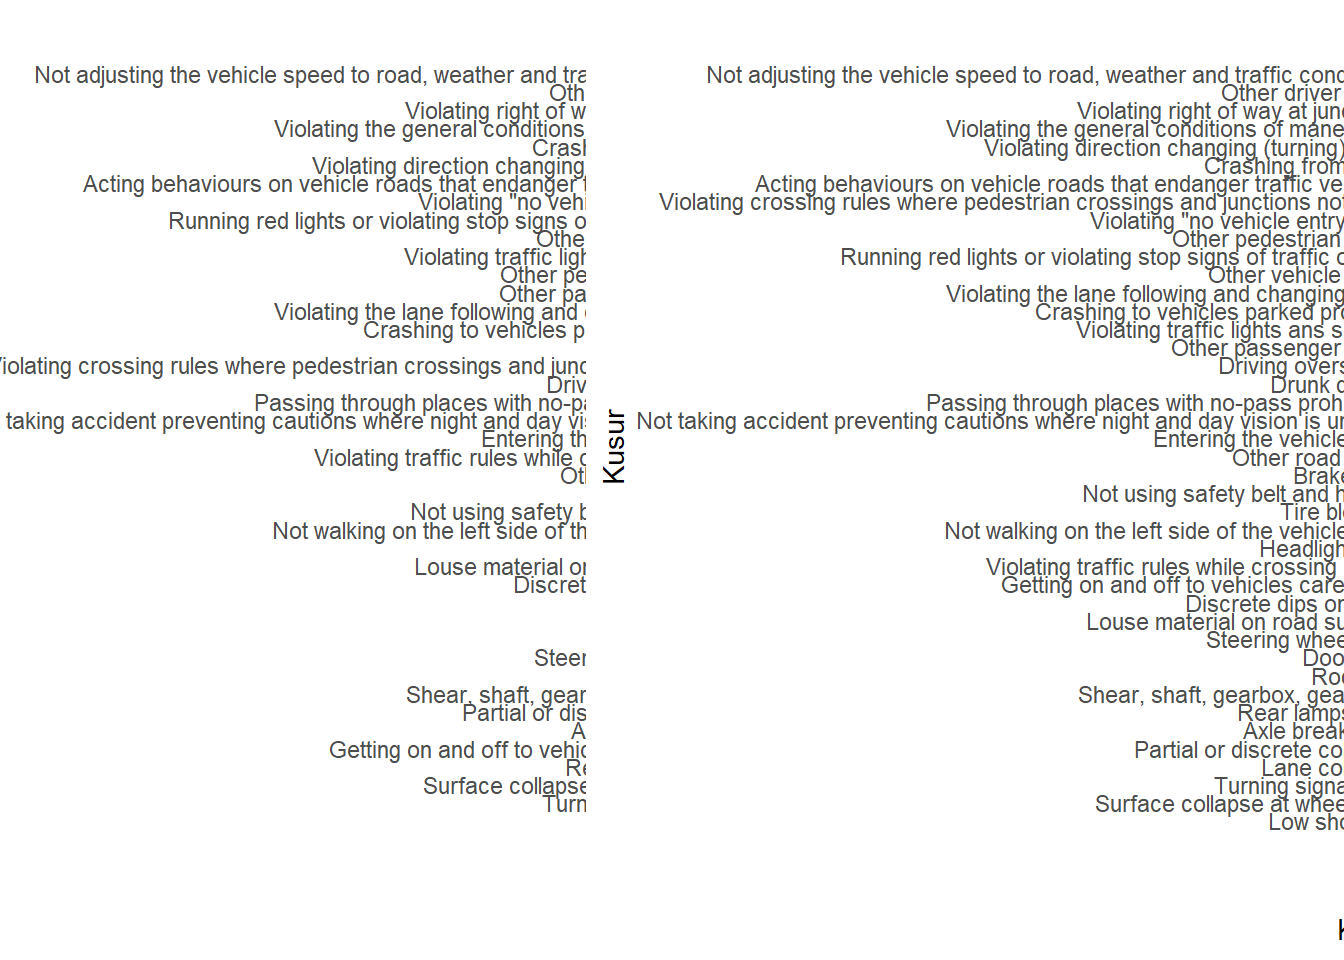
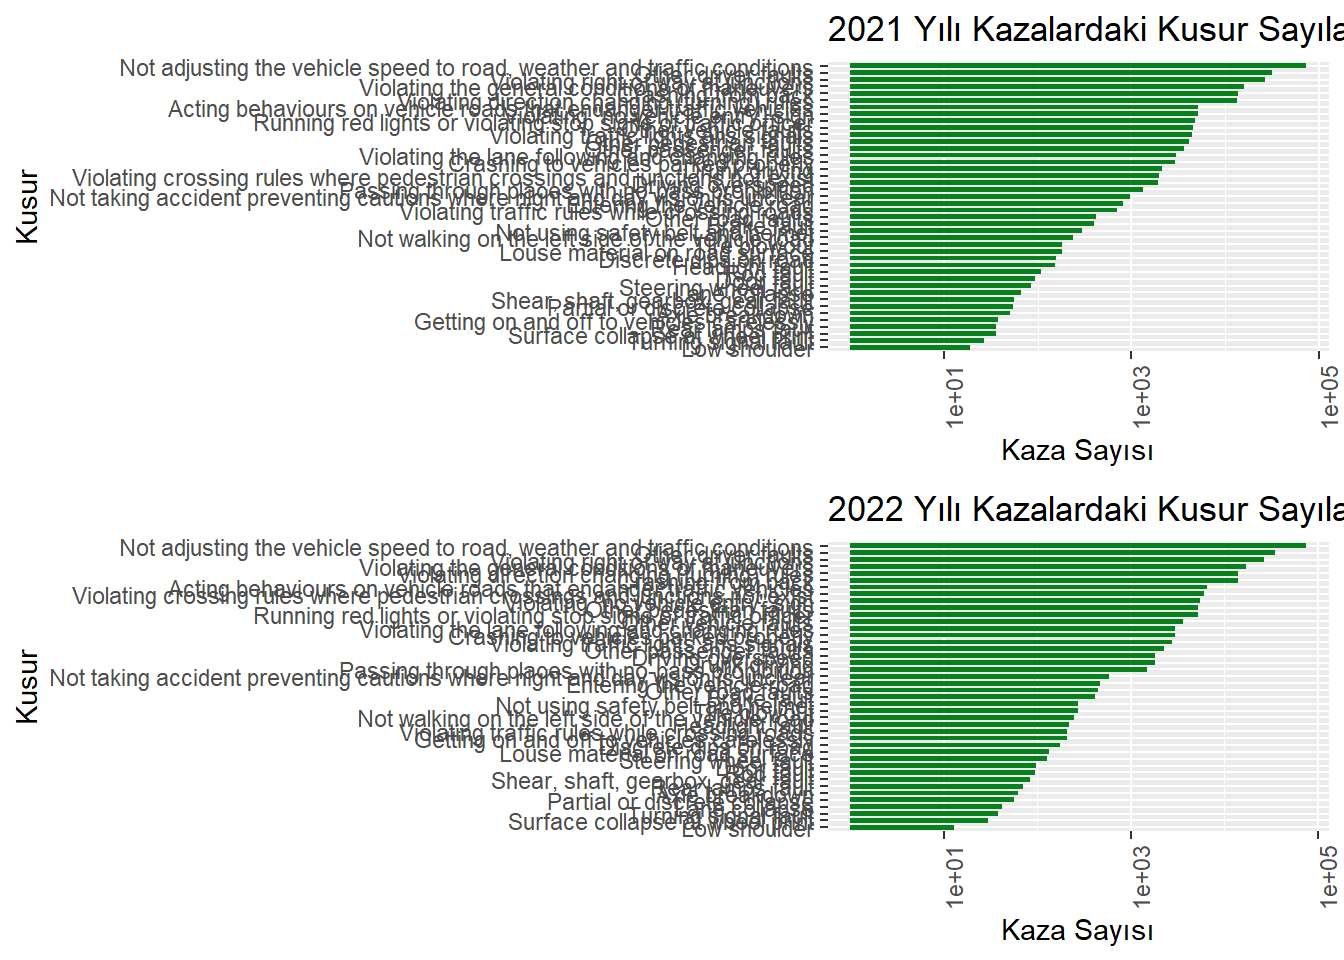
4
4

diff --git a/docs/proje.html b/docs/proje.html
@@ -442,7 +442,7 @@ The following object is masked from 'package:dplyr':
 <span id="cb11-16"><a href="#cb11-16" aria-hidden="true" tabindex="-1"></a>  <span class="fu">labs</span>(<span class="at">title =</span> <span class="st">"2022 Yılı Kazalardaki Kusur Sayıları"</span>, </span>
 <span id="cb11-17"><a href="#cb11-17" aria-hidden="true" tabindex="-1"></a>       <span class="at">x =</span> <span class="st">"Kaza Sayısı"</span>, <span class="at">y =</span> <span class="st">"Kusur"</span>)</span>
 <span id="cb11-18"><a href="#cb11-18" aria-hidden="true" tabindex="-1"></a></span>
-<span id="cb11-19"><a href="#cb11-19" aria-hidden="true" tabindex="-1"></a><span class="fu">grid.arrange</span>(p1, p2, <span class="at">ncol =</span> <span class="dv">2</span>)</span></code><button title="Copy to Clipboard" class="code-copy-button"><i class="bi"></i></button></pre></div>
+<span id="cb11-19"><a href="#cb11-19" aria-hidden="true" tabindex="-1"></a><span class="fu">grid.arrange</span>(p1, p2, <span class="at">nrow=</span><span class="dv">2</span>,<span class="at">ncol =</span> <span class="dv">1</span>)</span></code><button title="Copy to Clipboard" class="code-copy-button"><i class="bi"></i></button></pre></div>
 </details>
 <div class="cell-output-display">
 <p><img src="proje_files/figure-html/unnamed-chunk-4-1.png" class="img-fluid" width="672"></p>
